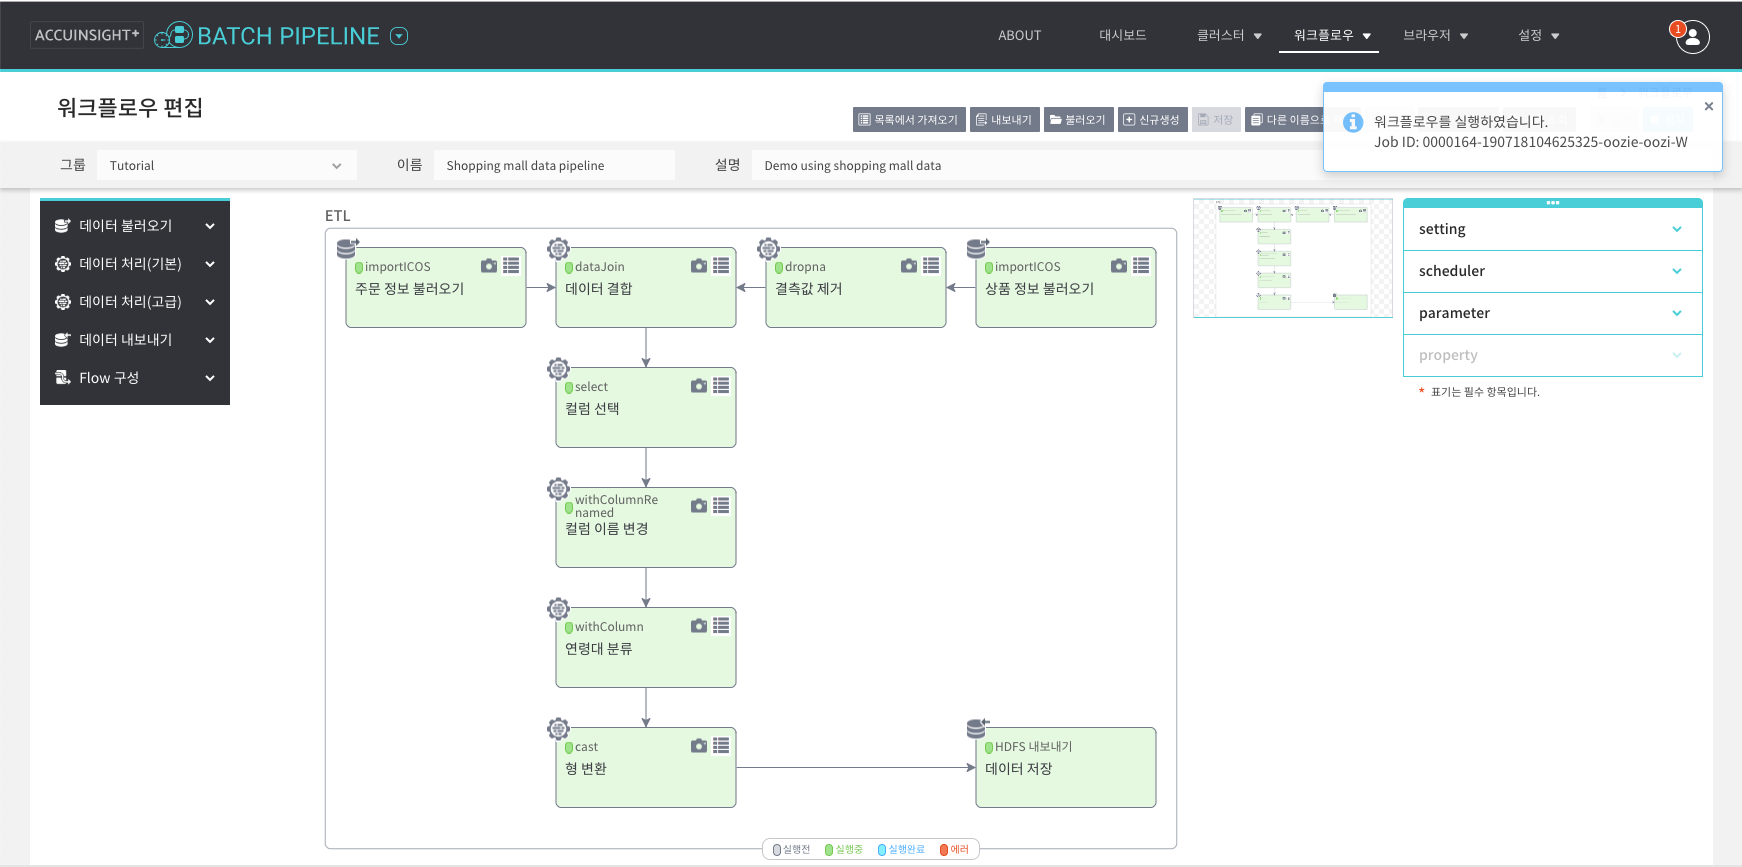
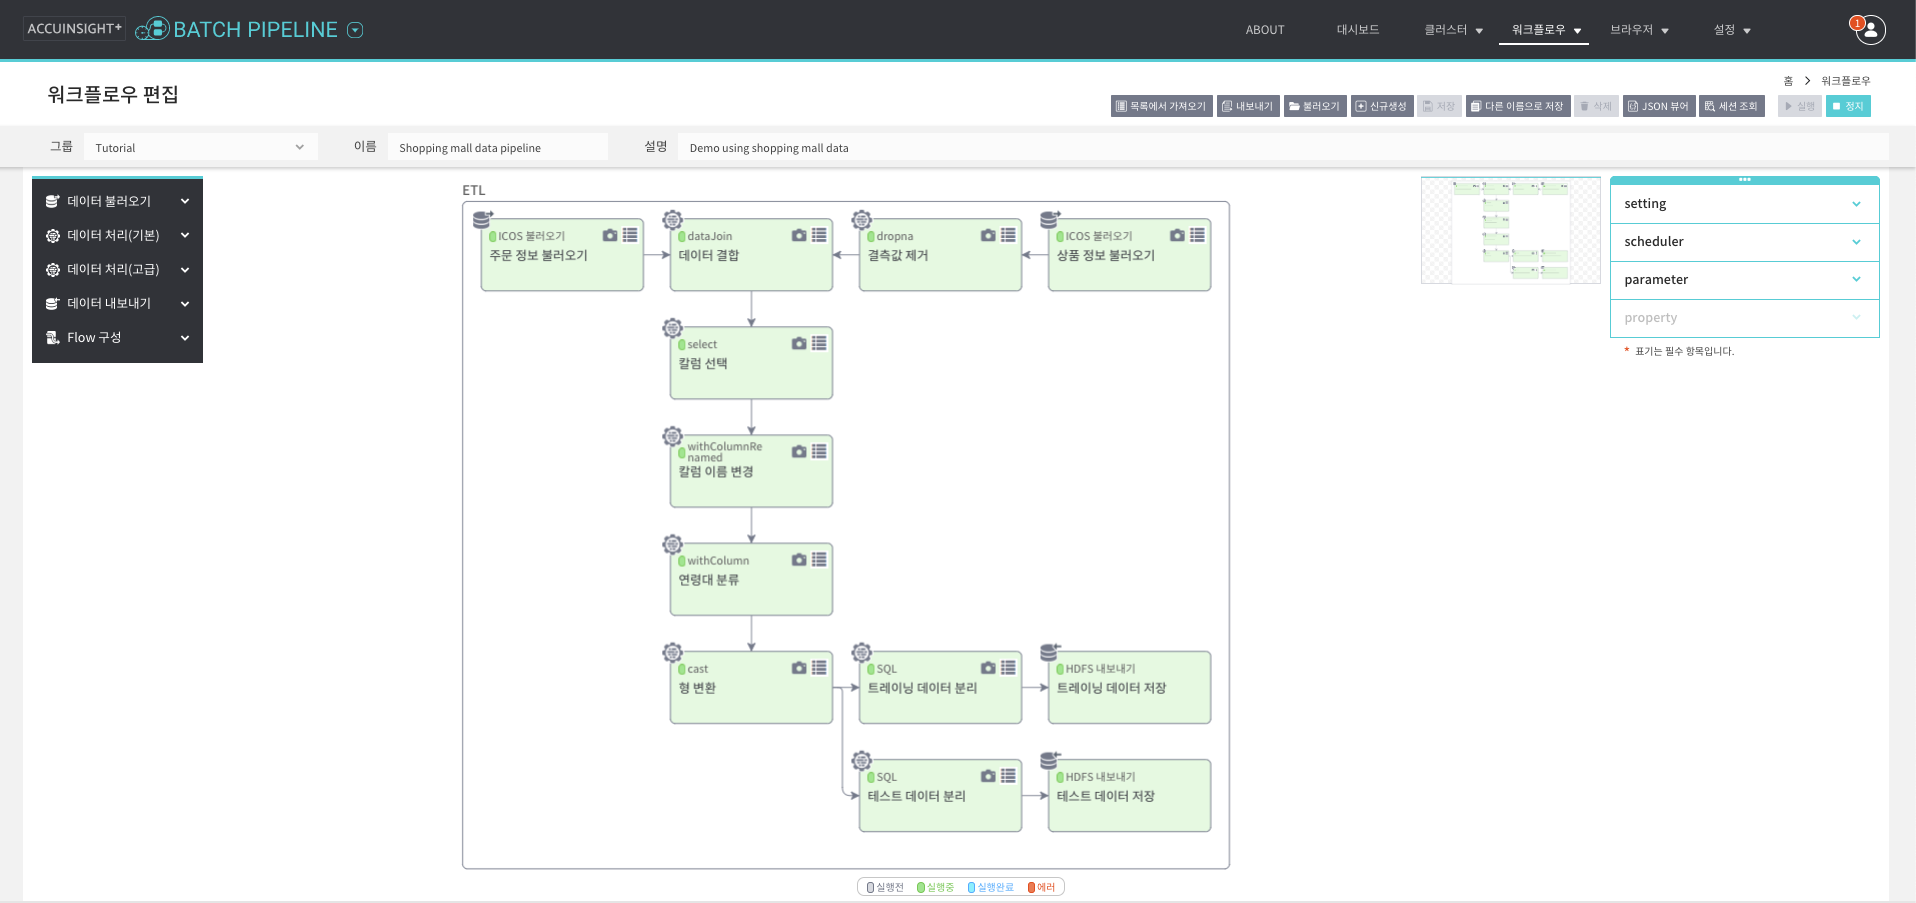
HIVE 예제 변경(hdfsToHive -> SQL), readme/bp/ml markdown 수정

diff --git a/BP_01/bp.md b/BP_01/bp.md
@@ -250,23 +250,59 @@ ICOS 불러오기 노드를 클릭하고 우측 메뉴에서 변수를 설정한
    - col: `age_group`
    - dataType: `IntergerType()`
 
-### 데이터 내보내기
+### 데이터 분류
 
-![](images/bp/19.save.data.png)
+![](images/bp/32.sql.trainingset.png)
 
-HDFS에 데이터셋을 저장한다.
+1. `좌측 메뉴 → 데이터 처리(고급) → SQL`
+    - 노드 이름: `트레이닝 데이터 분류`
+1. `형 변환` 노드와 연결.
+1. `query`에 다음과 같이 입력한다.
+    - `select * from default where ABS(HASH(dates))%10 < 8;`
+
+![](images/bp/33.sql.testset.png)
+
+1. `좌측 메뉴 → 데이터 처리(고급) → SQL`
+    - 노드 이름: `테스트 데이터 분류`
+1. `형 변환` 노드와 연결.
+1. `query`에 다음과 같이 입력한다.
+    - `select * from default where ABS(HASH(dates))%10 >= 8;`
+
+
+### 데이터 저장
+
+![](images/bp/19.save.trainingdata.png)
+
+HDFS에 트레이닝 데이터셋을 저장한다.
 
 1. `좌측 메뉴 → 데이터 내보내기 → HDFS 내보내기`
-   - 노드 이름: `데이터 저장`
-1. `형 변환` 노드와 연결.
+   - 노드 이름: `트레이닝 데이터 저장`
+1. `트레이닝 데이터 분리` 노드와 연결.
 1. path: 폴더 아이콘 버튼 클릭 후 스토리지에서 저장할 위치를 선택한다.
    - 경로: `hdfs://10.x.x.x:8020/tmp`
    - HDFS의 IP 주소는 유동적이다.
 1. folder: 새로 생성할 폴더 이름
-   - 이름: `bp_shop`
+   - 이름: `bp_shop_training`
 
 Hadoop으로 처리한 데이터는 자동으로 파일명이 지정된다.  
 (예: `part-00000-f57ca98e-3c25-4479-aa8e-334dc6850638-c000.csv`)
+
+![](images/bp/34.save.testdata.png)
+
+HDFS에 테스트 데이터셋을 저장한다.
+
+1. `좌측 메뉴 → 데이터 내보내기 → HDFS 내보내기`
+   - 노드 이름: `테스트 데이터 저장`
+1. `테스트 데이터 분리` 노드와 연결.
+1. path: 폴더 아이콘 버튼 클릭 후 스토리지에서 저장할 위치를 선택한다.
+   - 경로: `hdfs://10.x.x.x:8020/tmp`
+   - HDFS의 IP 주소는 유동적이다.
+1. folder: 새로 생성할 폴더 이름
+   - 이름: `bp_shop_test`
+
+Hadoop으로 처리한 데이터는 자동으로 파일명이 지정된다.  
+(예: `part-00000-f57ca98e-3c25-4479-aa8e-334dc6850638-c000.csv`)
+
 
 **마지막으로 워크플로우를 저장한다.**
 
@@ -355,71 +391,3 @@ HDFS 브라우저에서 생성된 데이터셋을 확인한다.
 
 DHP 클러스터 페이지에서 실행한 작업들의 정보와 클러스터 상태를 확인할 수 있다.
 
-### HIVE 태이블 생성하기
-HDFS에 저장된 데이터를 학습/테스트 데이터로 나누기 위하여 HIVE Table을 생성한다.
-
-![](images/bp/30.hive.menu.png)
-
-1. `상단 메뉴 → 브라우저 → HIVE ` 
-   - HIVE 브라우저를 선택한다.
-1. `좌측 메뉴`에서 이미 생성된 DHP 클러스터를 선택한다.
-1. `HIVE 계정 관리`를 선택하고 HIVE 계정을 추가한다.
-
-![](images/bp/31.hive.manageuser.png)
-
-![](images/bp/32.hive.adduser.png)
-
-1. `쿼리` 화면에 아래의 sql을 입력하여 Table을 생성한다. 
-- 칼럼 정보(category STRING, price INT, groups STRING, style STRING, age INT, order_date STRING, user_id STRING, age_group INT)를 입력하는 순서는 **실제 저장된 파일의 칼럼 순서와 동일**하게 입력.
-   - CREATE EXTERNAL TABLE IF NOT EXISTS shopping_data (`category STRING, price INT, groups STRING, style STRING, age INT, order_date STRING, user_id STRING, age_group INT`) ROW FORMAT DELIMITED FIELDS TERMINATED BY ',' STORED AS TEXTFILE LOCATION '`/tmp/bp_shop`' TBLPROPERTIES ("skip.header.line.count"="1")
-
-    생성된 테이블 내용을 확인한다.
-
-![](images/bp/33.hive.createtable.png)
-
-### 데이터 나누기
-
-1. `상단 메뉴 → 워크플로우 → 관리` 화면에서 워크플로우 편집을 선택한다.
-1. `좌측 메뉴 → Flow 구성 → hiveToHdfs`
-   - **캔버스의 ETL 상자 밖**으로 **드래그앤드롭**하여 트레이닝 셋을 저장할 노드를 추가한다.
-
-![](images/bp/34.hive.trainingset.png)
-
-1. hiveToHdfs 노드의 property를 아래와 같이 설정하고 기존에 생성한 **ETL 캔버스**와 연결한다.
-    - Node Description: `트레이닝 셋 저장`
-    - cluster: DHP 클러스터 선택
-    - user: Hive 브라우저에서 생성한 유저 아이디 입력
-    - path: Hive 쿼리 결과를 저장할 폴더 선택 `/tmp/bp_shop/`
-    - fileName: Hive 쿼리 결과를 저장할 파일 이름 입력 `traing.csv`
-    - header: 데이터에 HEAD 포함하기 위해 `체크`
-    - sql: 쿼리 입력
-        - `select * from shopping_data where ABS(HASH(order_date))%10 < 8;`
-
-    ![](images/bp/35.hive.trainingset2.png)
-
-1. `좌측 메뉴 → Flow 구성 → hiveToHdfs`
-   - **캔버스의 ETL 상자 밖**으로 **드래그앤드롭**하여 테스트 셋을 저장할 노드를 추가한다.
-1. hiveToHdfs 노드의 property를 아래와 같이 설정하고 기존에 생성한 **트레이닝 셋 저장 노드**와 연결한다.
-    - cluster: DHP 클러스터 선택
-    - user: Hive 브라우저에서 생성한 유저 아이디 입력
-    - path: Hive 쿼리 결과를 저장할 폴더 선택 `/tmp/bp_shop/`
-    - fileName: Hive 쿼리 결과를 저장할 파일 이름 입력 `test.csv`
-    - header: 데이터에 HEAD 포함하기 위해 `체크`
-    - sql: 쿼리 입력
-        - `select * from shopping_data where ABS(HASH(order_date))%10 >= 8;`
-    ![](images/bp/36.hive.testset.png)
-
-1. 최종 워크플로우를 저장하고 실행을 누른다.
-
-    ![](images/bp/37.hive.running.png)
-
-
-### 데이터 확인
-
-![](images/bp/38.hive.datacheck.png)
-
-HDFS 브라우저에서 생성된 트레이닝/테스트 데이터를 확인한다.
-
-- 경로: `/tmp/bp_shop/training.csv`, `/tmp/bp_shop/test.csv`
-
-파일을 더블 클릭하여 샘플 데이터를 미리 보거나 다운로드 버튼을 사용하여 로컬에 저장한다.

diff --git a/BP_01/readme.md b/BP_01/readme.md
@@ -29,7 +29,8 @@
 1. [컬럼 이름 변경](bp.md#컬럼-이름-변경)
 1. [연령대 분류](bp.md#연령대-분류)
 1. [캐스팅](bp.md#캐스팅)
-1. [데이터 내보내기](bp.md#데이터-내보내기)
+1. [데이터 분류](bp.md#데이터-분류)
+1. [데이터 저장](bp.md#데이터-저장)
 1. [세션 종료](bp.md#세션-종료)
 1. [실행](bp.md#실행)
 1. [완료](bp.md#완료)
